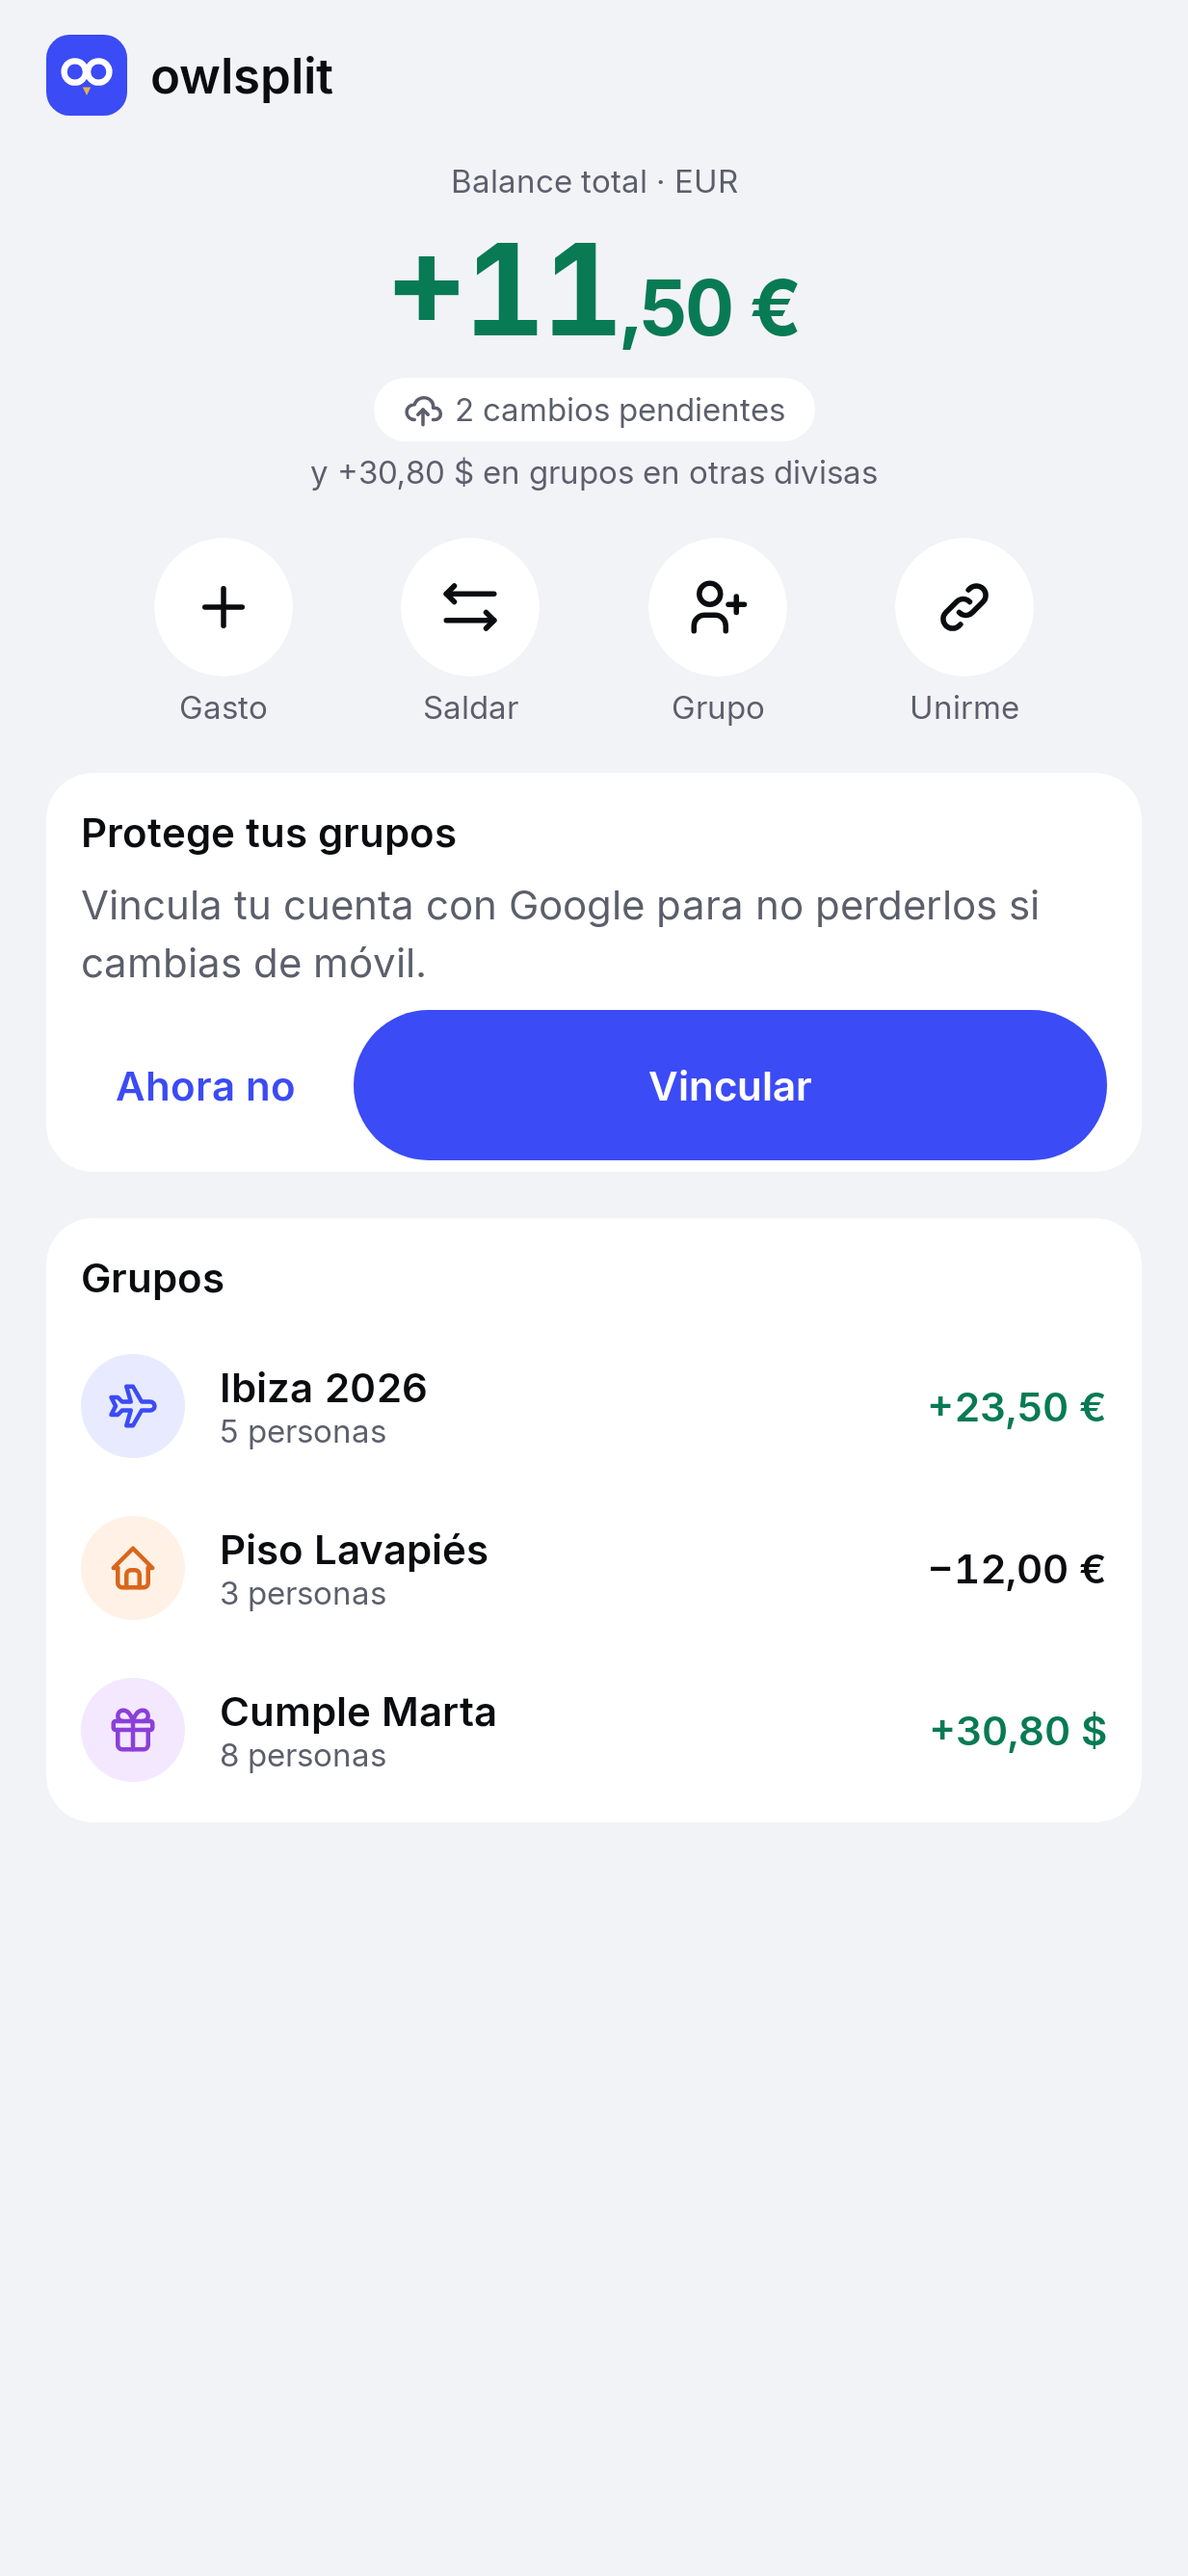
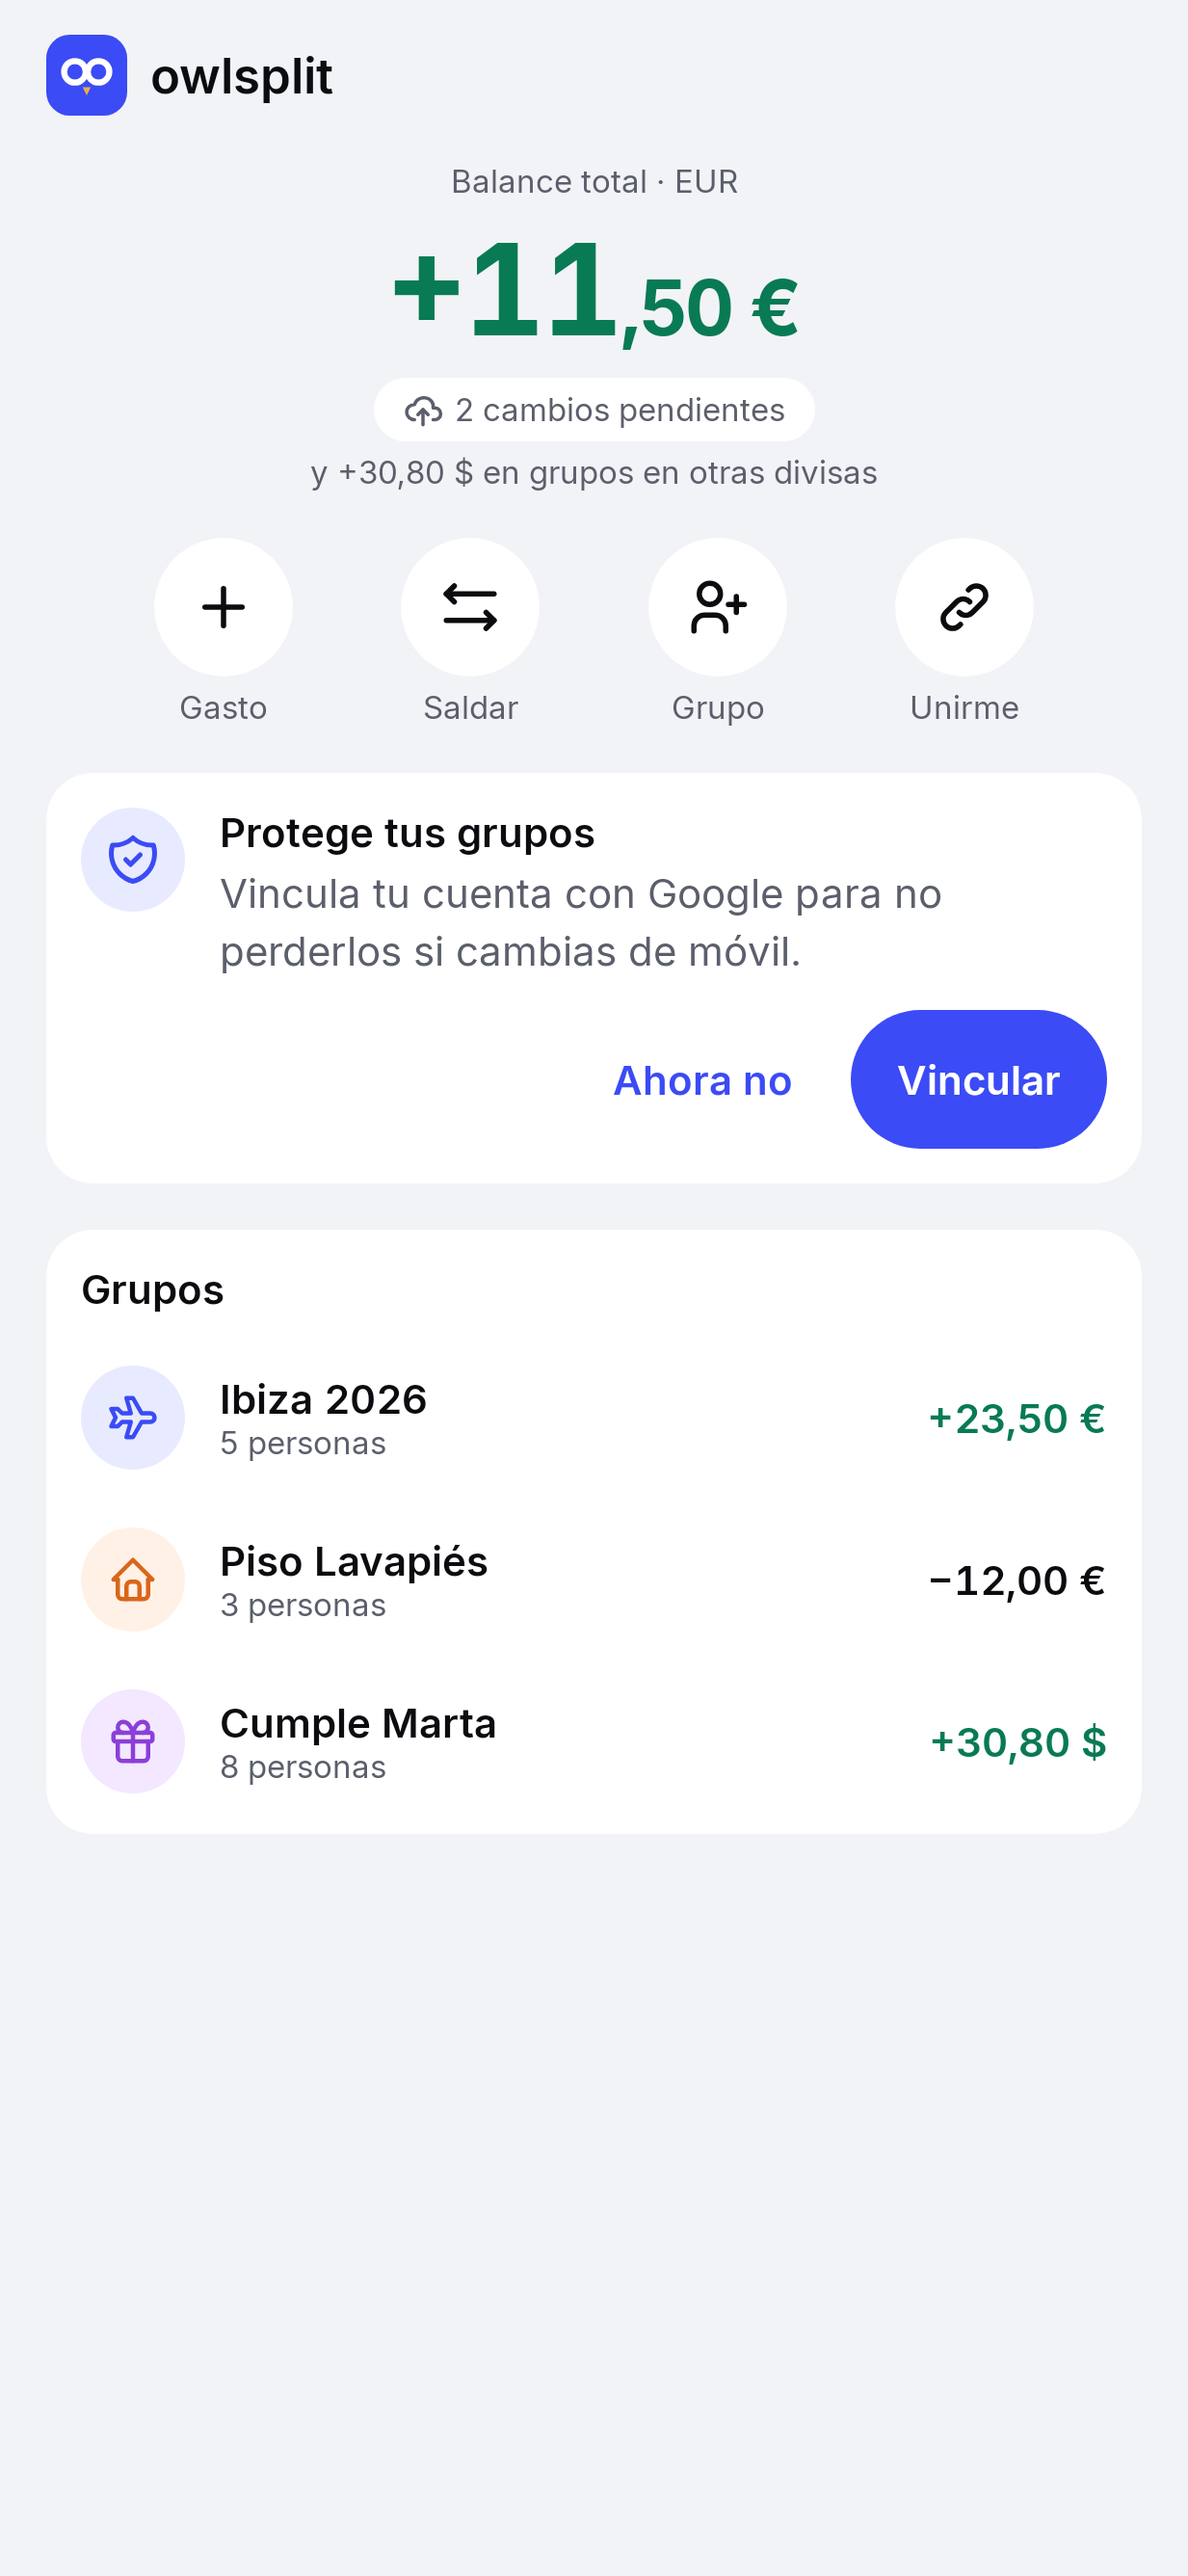
feat(home): link and update notices as callout cards
The "Keep your groups safe" and "New version" cards had 4 dp below the button
and a full-width pill squeezing "Not now". New design-system components:
CalloutCard (icon, title, text, actions aligned to the end, even padding) and
CompactPillButton (a pill as wide as its label). Home uses them for both
notices; screenshots re-recorded.

diff --git a/core/ui/src/commonMain/kotlin/es/sebas1705/owlsplit/core/ui/components/Callout.kt b/core/ui/src/commonMain/kotlin/es/sebas1705/owlsplit/core/ui/components/Callout.kt
@@ -1,0 +1,106 @@
+package es.sebas1705.owlsplit.core.ui.components
+
+import androidx.compose.foundation.background
+import androidx.compose.foundation.layout.Arrangement
+import androidx.compose.foundation.layout.Box
+import androidx.compose.foundation.layout.Column
+import androidx.compose.foundation.layout.PaddingValues
+import androidx.compose.foundation.layout.Row
+import androidx.compose.foundation.layout.fillMaxWidth
+import androidx.compose.foundation.layout.heightIn
+import androidx.compose.foundation.layout.padding
+import androidx.compose.foundation.layout.size
+import androidx.compose.foundation.shape.CircleShape
+import androidx.compose.material3.Button
+import androidx.compose.material3.ButtonDefaults
+import androidx.compose.material3.Icon
+import androidx.compose.material3.Text
+import androidx.compose.runtime.Composable
+import androidx.compose.ui.Alignment
+import androidx.compose.ui.Modifier
+import androidx.compose.ui.draw.clip
+import androidx.compose.ui.graphics.vector.ImageVector
+import androidx.compose.ui.semantics.heading
+import androidx.compose.ui.semantics.semantics
+import androidx.compose.ui.unit.dp
+import es.sebas1705.owlsplit.core.ui.theme.Owlsplit
+import es.sebas1705.owlsplit.core.ui.theme.OwlsplitShapes
+import es.sebas1705.owlsplit.core.ui.theme.Sizes
+import es.sebas1705.owlsplit.core.ui.theme.Spacing
+
+/**
+ * A suggestion the user can act on or put off (link your account, a new version): icon, title and
+ * text, then the actions at the end. Same surface as [OwlsplitContainer], with room around them.
+ */
+@Composable
+fun CalloutCard(
+    icon: ImageVector,
+    title: String,
+    body: String,
+    actionLabel: String,
+    onAction: () -> Unit,
+    dismissLabel: String,
+    onDismiss: () -> Unit,
+    modifier: Modifier = Modifier,
+) {
+    Column(
+        modifier
+            .fillMaxWidth()
+            .clip(OwlsplitShapes.container)
+            .background(Owlsplit.colors.surface, OwlsplitShapes.container)
+            .padding(Spacing.m),
+        verticalArrangement = Arrangement.spacedBy(Spacing.m),
+    ) {
+        Row(horizontalArrangement = Arrangement.spacedBy(Spacing.m)) {
+            Box(
+                Modifier.size(Sizes.iconTile).background(Owlsplit.colors.accentContainer, CircleShape),
+                contentAlignment = Alignment.Center,
+            ) {
+                Icon(
+                    icon,
+                    contentDescription = null,
+                    tint = Owlsplit.colors.accentText,
+                    modifier = Modifier.size(20.dp)
+                )
+            }
+            Column(Modifier.weight(1f), verticalArrangement = Arrangement.spacedBy(Spacing.xs)) {
+                Text(
+                    title,
+                    style = Owlsplit.type.bodyStrong,
+                    color = Owlsplit.colors.textPrimary,
+                    modifier = Modifier.semantics { heading() },
+                )
+                Text(body, style = Owlsplit.type.body, color = Owlsplit.colors.textSecondary)
+            }
+        }
+        Row(
+            Modifier.fillMaxWidth(),
+            horizontalArrangement = Arrangement.spacedBy(Spacing.s, Alignment.End),
+            verticalAlignment = Alignment.CenterVertically,
+        ) {
+            TextActionButton(dismissLabel, onDismiss)
+            CompactPillButton(actionLabel, onAction)
+        }
+    }
+}
+
+/** A primary action that does not own the screen (inside a card): accent pill as wide as its label. */
+@Composable
+fun CompactPillButton(text: String, onClick: () -> Unit, modifier: Modifier = Modifier, enabled: Boolean = true) {
+    Button(
+        onClick = onClick,
+        enabled = enabled,
+        shape = OwlsplitShapes.pill,
+        colors = ButtonDefaults.buttonColors(
+            containerColor = Owlsplit.colors.accent,
+            contentColor = Owlsplit.colors.onAccent,
+            disabledContainerColor = Owlsplit.colors.surfaceVariant,
+            disabledContentColor = Owlsplit.colors.textMuted,
+        ),
+        elevation = ButtonDefaults.buttonElevation(0.dp, 0.dp, 0.dp, 0.dp, 0.dp),
+        contentPadding = PaddingValues(horizontal = Spacing.l),
+        modifier = modifier.heightIn(min = Sizes.touchTarget),
+    ) {
+        Text(text, style = Owlsplit.type.bodyStrong)
+    }
+}

diff --git a/feature/home/src/commonMain/kotlin/es/sebas1705/owlsplit/feature/home/HomeScreen.kt b/feature/home/src/commonMain/kotlin/es/sebas1705/owlsplit/feature/home/HomeScreen.kt
@@ -36,16 +36,18 @@ import androidx.compose.ui.unit.dp
 import androidx.lifecycle.compose.collectAsStateWithLifecycle
 import compose.icons.TablerIcons
 import compose.icons.tablericons.ArrowsLeftRight
+import compose.icons.tablericons.Download
+import compose.icons.tablericons.ShieldCheck
 import compose.icons.tablericons.Link
 import compose.icons.tablericons.Plus
 import compose.icons.tablericons.UserPlus
 import es.sebas1705.owlsplit.core.money.Currency
+import es.sebas1705.owlsplit.core.ui.components.CalloutCard
 import es.sebas1705.owlsplit.core.ui.components.BalanceHero
 import es.sebas1705.owlsplit.core.ui.components.EmptyState
 import es.sebas1705.owlsplit.core.ui.components.GroupRow
 import es.sebas1705.owlsplit.core.ui.components.OwlsplitContainer
 import es.sebas1705.owlsplit.core.ui.components.OwlsplitLogo
-import es.sebas1705.owlsplit.core.ui.components.PrimaryPillButton
 import es.sebas1705.owlsplit.core.ui.components.QuickActionButton
 import es.sebas1705.owlsplit.core.ui.components.SyncStatus
 import es.sebas1705.owlsplit.core.ui.components.SyncStatusChip
@@ -297,47 +299,28 @@ private fun Archived(groups: List<Group>, onOpen: (String) -> Unit) {
 @Composable
 private fun Update(release: LatestRelease, onEvent: (HomeIntent) -> Unit) {
     val uri = LocalUriHandler.current
-    OwlsplitContainer(title = stringResource(Res.string.update_title, release.version)) {
-        Column(Modifier.padding(horizontal = Spacing.m), verticalArrangement = Arrangement.spacedBy(Spacing.s)) {
-            Text(
-                stringResource(Res.string.update_body),
-                style = Owlsplit.type.body,
-                color = Owlsplit.colors.textSecondary
-            )
-            Row(
-                verticalAlignment = Alignment.CenterVertically,
-                horizontalArrangement = Arrangement.spacedBy(Spacing.s)
-            ) {
-                TextActionButton(stringResource(Res.string.nudge_dismiss), { onEvent(HomeIntent.DismissUpdate) })
-                PrimaryPillButton(
-                    stringResource(Res.string.update_action),
-                    { uri.openUri(release.url) },
-                    Modifier.weight(1f)
-                )
-            }
-        }
-    }
+    CalloutCard(
+        icon = TablerIcons.Download,
+        title = stringResource(Res.string.update_title, release.version),
+        body = stringResource(Res.string.update_body),
+        actionLabel = stringResource(Res.string.update_action),
+        onAction = { uri.openUri(release.url) },
+        dismissLabel = stringResource(Res.string.nudge_dismiss),
+        onDismiss = { onEvent(HomeIntent.DismissUpdate) },
+    )
 }
 
 @Composable
 private fun Nudge(onEvent: (HomeIntent) -> Unit, onLink: () -> Unit) {
-    OwlsplitContainer(title = stringResource(Res.string.nudge_title)) {
-        Column(Modifier.padding(horizontal = Spacing.m), verticalArrangement = Arrangement.spacedBy(Spacing.s)) {
-            Text(
-                stringResource(Res.string.nudge_body),
-                style = Owlsplit.type.body,
-                color = Owlsplit.colors.textSecondary
-            )
-            Row(
-                verticalAlignment = Alignment.CenterVertically,
-                horizontalArrangement = Arrangement.spacedBy(Spacing.s)
-            ) {
-                TextActionButton(stringResource(Res.string.nudge_dismiss), { onEvent(HomeIntent.DismissNudge) })
-                // All the width left: with large text the label still fits.
-                PrimaryPillButton(stringResource(Res.string.nudge_action), onLink, Modifier.weight(1f))
-            }
-        }
-    }
+    CalloutCard(
+        icon = TablerIcons.ShieldCheck,
+        title = stringResource(Res.string.nudge_title),
+        body = stringResource(Res.string.nudge_body),
+        actionLabel = stringResource(Res.string.nudge_action),
+        onAction = onLink,
+        dismissLabel = stringResource(Res.string.nudge_dismiss),
+        onDismiss = { onEvent(HomeIntent.DismissNudge) },
+    )
 }
 
 @Composable

diff --git a/docs/DESIGN_SYSTEM.md b/docs/DESIGN_SYSTEM.md
@@ -95,6 +95,8 @@ Geometric owl: rounded square in `accent` with two white rings for eyes and a be
 | `AvatarToggle` | Avatar that toggles included (`accent`) / excluded (`surfaceVariant`) |
 | `SyncStatusChip` | Synced · N pending · Offline · Error |
 | `PrimaryPillButton` | Wide main pill button, `accent` |
+| `CompactPillButton` | Pill as wide as its label, for a primary action inside a card |
+| `CalloutCard` | Suggestion card (icon, title, text, "not now" + action aligned to the end): link your account, a new version |
 | `EmptyState` | Logo, headline, one line and an optional action |
 | `ProfileAvatar` | Initials on the chosen color (`accent:<COLOR>`); from 64 dp up the initial uses the `title` style |
 | `OwlsplitTextField` | Single-line field on `surface`, label above and error below |
